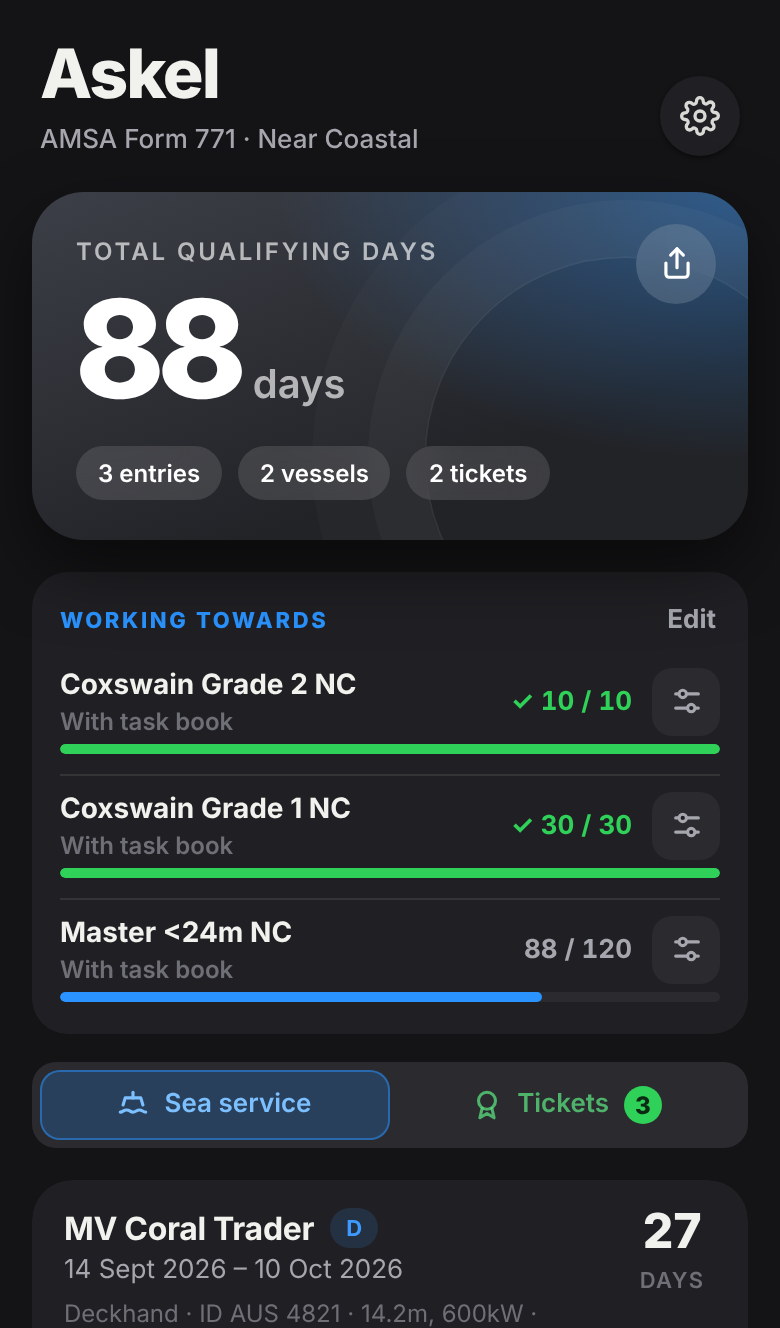
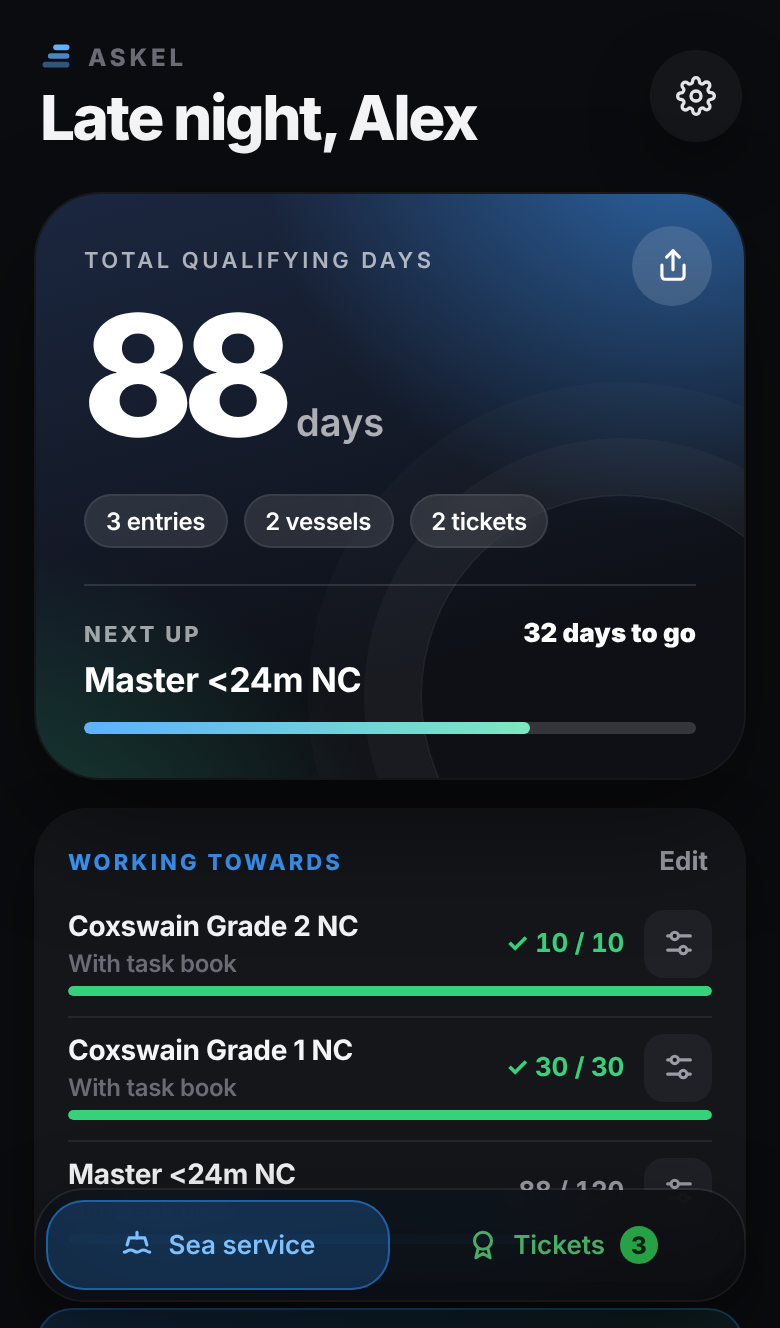
App redesign (glass dock, big type, hero next-up), light theme, first-run setup, backup and restore, greeting
Claude-Session: https://claude.ai/code/session_014hkVmfGYH1MY1u5uVD119d

diff --git a/app/index.html b/app/index.html
@@ -9,7 +9,8 @@
 <meta name="apple-mobile-web-app-title" content="Askel" />
 <meta name="format-detection" content="telephone=no" />
 <meta name="color-scheme" content="dark" />
-<meta name="theme-color" content="#141416" />
+<meta name="theme-color" content="#0B0C0F" />
+<script>try{var __t=localStorage.getItem("askel-theme")||"dark";if(__t==="auto")__t=(window.matchMedia&&matchMedia("(prefers-color-scheme: light)").matches)?"light":"dark";document.documentElement.setAttribute("data-theme",__t);}catch(e){document.documentElement.setAttribute("data-theme","dark");}</script>
 <link rel="manifest" href="manifest.json" />
 <link rel="apple-touch-icon" href="../icon-180.png" />
 <link rel="icon" href="../icon-192.png" />
@@ -475,6 +476,81 @@
   @media (prefers-reduced-motion: reduce) {
     *, *::before, *::after { animation-duration: 0.01ms !important; transition-duration: 0.01ms !important; animation-delay: 0s !important; }
   }
+
+  /* ===== v2 skin: deeper black, hairlines, glass, big type. Light theme below. ===== */
+  :root { --bg: #0B0C0F; --card: #15161A; --card-2: #202127; --ink: #F5F5F7; --ink-2: #9C9CA6; --ink-3: #6B6B76; --line: rgba(255,255,255,0.07);
+    --glass: rgba(11,12,15,0.72); --blue: #3D9BFF; --accent: #3D9BFF; --accent-soft: rgba(61,155,255,0.2); --green: #34D27B; --good: #34D27B;
+    --hero-1: #1B2740; --hero-2: #0E1016; --primary: #F5F5F7; --on-primary: #0B0C0F; --icon: #E4E4E8;
+    --shadow: 0 0 0 1px rgba(255,255,255,0.05), 0 12px 32px rgba(0,0,0,0.38);
+    --fill-soft: rgba(255,255,255,0.08); --tab-blue: #7CC0FF; --tab-green: #5BE07F; --dash: rgba(255,255,255,0.16); --font: Inter, -apple-system, BlinkMacSystemFont, "SF Pro Display", "SF Pro Text", system-ui, sans-serif; }
+  [data-theme="light"] { color-scheme: light; --bg: #F3F3F6; --card: #FFFFFF; --card-2: #EDEDF1; --ink: #131316; --ink-2: #5A5A64; --ink-3: #8C8C96; --line: rgba(0,0,0,0.08);
+    --glass: rgba(243,243,246,0.78); --blue: #0A74F0; --accent: #0A74F0; --accent-soft: rgba(10,116,240,0.14); --green: #16A34A; --good: #16A34A; --red: #E5362F; --danger: #E5362F; --yellow: #B98A00;
+    --primary: #131316; --on-primary: #FFFFFF; --icon: #3A3A42; --shadow: 0 0 0 1px rgba(0,0,0,0.05), 0 10px 28px rgba(20,20,40,0.07);
+    --fill-soft: rgba(0,0,0,0.06); --tab-blue: #0A66D6; --tab-green: #12803B; --dash: rgba(0,0,0,0.2); }
+  body { letter-spacing: -0.01em; }
+  .wrap { padding: calc(var(--sat) + 14px) 18px calc(var(--sab) + 160px); }
+  header { padding: 6px 2px 20px; align-items: center; }
+  .brandline { display: flex; align-items: center; gap: 8px; font-size: 12px; font-weight: 800; letter-spacing: .16em; text-transform: uppercase; color: var(--ink-3); margin-bottom: 8px; }
+  h1 { font-size: 31px; font-weight: 800; letter-spacing: -0.04em; }
+  .icon-btn { width: 44px; height: 44px; background: var(--card); box-shadow: var(--shadow); }
+  .card, .goal-card, .more-card { border-radius: 26px; box-shadow: var(--shadow); }
+  .card { padding: 20px; }
+  .hero { border-radius: 32px; padding: 26px 24px 22px; box-shadow: 0 0 0 1px rgba(255,255,255,0.06), 0 24px 60px rgba(0,0,0,0.45);
+    background: radial-gradient(110% 120% at 92% -10%, rgba(61,155,255,0.55), transparent 55%), radial-gradient(90% 90% at -5% 115%, rgba(52,210,160,0.26), transparent 60%), linear-gradient(165deg, var(--hero-1), var(--hero-2) 75%); }
+  [data-theme="light"] .hero { box-shadow: 0 0 0 1px rgba(10,40,90,0.08), 0 20px 50px rgba(20,60,140,0.22); }
+  .hero-label { letter-spacing: .16em; font-size: 11px; }
+  .hero-value { font-size: 84px; font-weight: 800; letter-spacing: -0.05em; margin: 10px 0 16px; }
+  .hero-value small { font-size: 19px; font-weight: 600; }
+  .pill { background: rgba(255,255,255,0.1); box-shadow: inset 0 0 0 1px rgba(255,255,255,0.08); }
+  .hero-next { margin-top: 18px; padding-top: 16px; border-top: 1px solid rgba(255,255,255,0.12); position: relative; z-index: 1; }
+  .hero-next .hn-top { display: flex; justify-content: space-between; align-items: baseline; font-size: 11px; font-weight: 800; letter-spacing: .14em; text-transform: uppercase; color: rgba(255,255,255,0.6); }
+  .hero-next .hn-top b { letter-spacing: 0; text-transform: none; font-size: 13px; color: #fff; }
+  .hero-next .hn-name { font-size: 17px; font-weight: 700; margin: 6px 0 10px; color: #fff; }
+  .hero-next .hn-bar { height: 6px; border-radius: 3px; background: rgba(255,255,255,0.16); overflow: hidden; }
+  .hero-next .hn-bar i { display: block; height: 100%; border-radius: 3px; background: linear-gradient(90deg, #5DB1FF, #7DE8C0); transition: width .9s var(--ease); }
+  .hero-next.ok .hn-top b { color: #7DE8C0; }
+  /* Floating dock: tabs live at the bottom, where the thumb is */
+  .segmented.main-tabs { position: fixed; left: 50%; bottom: calc(var(--sab) + 14px); transform: translateX(-50%); width: min(calc(100% - 36px), 360px); margin: 0; padding: 5px; z-index: 40;
+    background: var(--glass); -webkit-backdrop-filter: blur(24px) saturate(1.7); backdrop-filter: blur(24px) saturate(1.7); border-radius: 24px; box-shadow: 0 0 0 1px var(--line), 0 16px 44px rgba(0,0,0,0.42); }
+  .segmented.main-tabs .thumb { top: 5px; bottom: 5px; left: 5px; width: calc(50% - 5px); border-radius: 19px; }
+  .main-tabs button { padding: 13px 6px; }
+  .main-tabs button[data-tab="service"] { color: var(--tab-blue); opacity: .75; } .main-tabs button[data-tab="service"].active { color: var(--tab-blue); opacity: 1; }
+  .main-tabs button[data-tab="tickets"] { color: var(--tab-green); opacity: .75; } .main-tabs button[data-tab="tickets"].active { color: var(--tab-green); opacity: 1; }
+  .fab { color: var(--on-primary); background: var(--primary); bottom: calc(var(--sab) + 86px); height: 52px; padding: 0 20px 0 16px; box-shadow: 0 10px 30px rgba(0,0,0,0.4); }
+  .goal-card { padding: 14px 16px 8px; } .goal-head span { letter-spacing: .14em; }
+  .goal-empty { border-color: var(--dash); border-radius: 20px; }
+  .goal-opt.on, .goal-tb-seg button.active { color: var(--tab-blue); }
+  .segmented .thumb { background: var(--card-2); }
+  [data-theme="light"] .segmented .thumb { background: #FFFFFF; box-shadow: 0 1px 4px rgba(0,0,0,0.12); }
+  [data-theme="light"] .boss-card { background: linear-gradient(135deg, rgba(10,116,240,0.10), rgba(22,163,74,0.06)); }
+  [data-theme="light"] .boss-card .boss-x { background: rgba(0,0,0,0.06); }
+  [data-theme="light"] .tab-badge { color: #fff; }
+  [data-theme="light"] .sheet, [data-theme="light"] .form-card { background: var(--card); }
+  [data-theme="light"] .overlay { background: rgba(10,12,20,0.38); }
+  .set-seg { display: flex; gap: 6px; } .set-seg button { flex: 1; border: none; border-radius: 12px; padding: 12px 6px; font-size: 14px; font-weight: 700; background: var(--card-2); color: var(--ink-2); cursor: pointer; transition: background .2s, color .2s, transform .2s var(--spring); }
+  .set-seg button.on { background: var(--accent-soft); color: var(--tab-blue); box-shadow: inset 0 0 0 1px var(--accent); } .set-seg button:active { transform: scale(0.96); }
+  /* First-run setup */
+  .onb { position: fixed; inset: 0; z-index: 90; background: var(--bg); display: none; flex-direction: column; padding: calc(var(--sat) + 14px) 0 calc(var(--sab) + 14px); }
+  .onb.open { display: flex; animation: onbIn .5s var(--ease); } @keyframes onbIn { from { opacity: 0; transform: scale(1.02); } to { opacity: 1; transform: none; } }
+  .onb::before { content: ""; position: absolute; inset: 0 0 auto 0; height: 360px; background: radial-gradient(80% 100% at 85% 0%, rgba(61,155,255,0.28), transparent 60%), radial-gradient(70% 90% at 0% 10%, rgba(52,210,160,0.14), transparent 60%); pointer-events: none; }
+  .onb-top { display: flex; align-items: center; justify-content: space-between; padding: 6px 22px 0; position: relative; }
+  .onb-dots { display: flex; gap: 6px; } .onb-dots i { width: 22px; height: 4px; border-radius: 2px; background: var(--line); transition: background .3s, width .3s var(--spring); } .onb-dots i.on { background: var(--accent); width: 34px; } .onb-dots i.done { background: var(--ink-3); }
+  .onb-skip { border: none; background: transparent; color: var(--ink-3); font-size: 14px; font-weight: 700; padding: 8px 0; cursor: pointer; }
+  .onb-body { flex: 1; overflow-y: auto; padding: 26px 22px 20px; position: relative; -webkit-overflow-scrolling: touch; }
+  .onb-step { max-width: 520px; margin: 0 auto; animation: onbStep .5s var(--ease); } @keyframes onbStep { from { opacity: 0; transform: translateX(22px); } to { opacity: 1; transform: none; } }
+  .onb-mark { width: 62px; height: 62px; border-radius: 20px; background: var(--card); box-shadow: var(--shadow); display: grid; place-items: center; margin-bottom: 26px; }
+  .onb h2 { font-size: 34px; line-height: 1.08; letter-spacing: -0.04em; margin: 0 0 12px; font-weight: 800; }
+  .onb .sub { font-size: 16px; line-height: 1.5; color: var(--ink-2); margin: 0 0 24px; }
+  .onb .opt { display: flex; align-items: center; justify-content: space-between; gap: 14px; padding: 14px 16px; border-radius: 18px; background: var(--card); box-shadow: var(--shadow); margin-bottom: 8px; cursor: pointer; }
+  .onb .opt b { display: block; font-size: 15px; } .onb .opt small { display: block; color: var(--ink-3); font-size: 12.5px; margin-top: 2px; font-weight: 500; }
+  .onb .grp { font-size: 11px; font-weight: 800; letter-spacing: .14em; text-transform: uppercase; color: var(--ink-3); margin: 22px 4px 10px; }
+  .onb .tips { display: grid; gap: 10px; margin-top: 8px; } .onb .tip { display: flex; gap: 14px; align-items: flex-start; padding: 14px 16px; border-radius: 18px; background: var(--card); box-shadow: var(--shadow); font-size: 14.5px; color: var(--ink-2); line-height: 1.45; } .onb .tip b { color: var(--ink); display: block; font-size: 15px; margin-bottom: 2px; }
+  .onb .tip em { font-style: normal; flex: 0 0 30px; height: 30px; border-radius: 10px; background: var(--accent-soft); color: var(--tab-blue); display: grid; place-items: center; font-weight: 800; }
+  .onb-foot { display: flex; gap: 10px; padding: 8px 22px 0; max-width: 564px; width: 100%; margin: 0 auto; position: relative; }
+  .onb-back { flex: 0 0 auto; border: none; border-radius: 16px; padding: 16px 20px; font-size: 16px; font-weight: 700; background: var(--card); color: var(--ink); box-shadow: var(--shadow); cursor: pointer; }
+  .onb-next { flex: 1; border: none; border-radius: 16px; padding: 16px; font-size: 16px; font-weight: 800; background: var(--primary); color: var(--on-primary); cursor: pointer; transition: transform .25s var(--spring); } .onb-next:active, .onb-back:active { transform: scale(0.97); }
+  .onb .alt { display: block; width: 100%; border: none; background: transparent; color: var(--ink-3); font-size: 14px; font-weight: 700; padding: 14px; cursor: pointer; }
+  .onb input[type=text], .onb input[type=email], .onb input[type=password] { margin-bottom: 10px; padding: 16px; border-radius: 16px; background: var(--card); box-shadow: var(--shadow); }
 </style>
 </head>
 <body>
@@ -484,11 +560,11 @@
 
   <header class="rise">
     <div>
-      <h1>Askel</h1>
-      <p class="subtitle">AMSA Form 771 · Near Coastal</p>
+      <div class="brandline"><svg width="16" height="16" viewBox="0 0 24 24" fill="none" stroke="#5DB1FF" stroke-width="4.2" stroke-linecap="round" aria-hidden="true"><path d="M4 18.5H20" opacity=".45"/><path d="M8 12H20" opacity=".75"/><path d="M12 5.5H20"/></svg>Askel</div>
+      <h1 id="greet">Welcome aboard</h1>
     </div>
     <button class="icon-btn" id="settingsBtn" aria-label="Settings">
-      <svg width="20" height="20" viewBox="0 0 24 24" fill="none" stroke="currentColor" stroke-width="2" stroke-linecap="round" stroke-linejoin="round"><circle cx="12" cy="12" r="3"/><path d="M19.4 15a1.65 1.65 0 0 0 .33 1.82l.06.06a2 2 0 1 1-2.83 2.83l-.06-.06a1.65 1.65 0 0 0-1.82-.33 1.65 1.65 0 0 0-1 1.51V21a2 2 0 1 1-4 0v-.09a1.65 1.65 0 0 0-1-1.51 1.65 1.65 0 0 0-1.82.33l-.06.06a2 2 0 1 1-2.83-2.83l.06-.06a1.65 1.65 0 0 0 .33-1.82 1.65 1.65 0 0 0-1.51-1H3a2 2 0 1 1 0-4h.09a1.65 1.65 0 0 0 1.51-1 1.65 1.65 0 0 0-.33-1.82l-.06-.06a2 2 0 1 1 2.83-2.83l.06.06a1.65 1.65 0 0 0 1.82.33h0a1.65 1.65 0 0 0 1-1.51V3a2 2 0 1 1 4 0v.09a1.65 1.65 0 0 0 1 1.51h0a1.65 1.65 0 0 0 1.82-.33l.06-.06a2 2 0 1 1 2.83 2.83l-.06.06a1.65 1.65 0 0 0-.33 1.82v0a1.65 1.65 0 0 0 1.51 1H21a2 2 0 1 1 0 4h-.09a1.65 1.65 0 0 0-1.51 1z"/></svg>
+      <svg width="20" height="20" viewBox="0 0 24 24" fill="none" stroke="currentColor" stroke-width="2" stroke-linecap="round" stroke-linejoin="round"><circle cx="12" cy="12" r="3"/><path d="M19.4 15a1.65 1.65 0 0 0 .33 1.82l.06.06a2 2 0 0 1 0 2.83 2 2 0 0 1-2.83 0l-.06-.06a1.65 1.65 0 0 0-1.82-.33 1.65 1.65 0 0 0-1 1.51V21a2 2 0 0 1-2 2 2 2 0 0 1-2-2v-.09A1.65 1.65 0 0 0 9 19.4a1.65 1.65 0 0 0-1.82.33l-.06.06a2 2 0 0 1-2.83 0 2 2 0 0 1 0-2.83l.06-.06a1.65 1.65 0 0 0 .33-1.82 1.65 1.65 0 0 0-1.51-1H3a2 2 0 0 1-2-2 2 2 0 0 1 2-2h.09A1.65 1.65 0 0 0 4.6 9a1.65 1.65 0 0 0-.33-1.82l-.06-.06a2 2 0 0 1 0-2.83 2 2 0 0 1 2.83 0l.06.06a1.65 1.65 0 0 0 1.82.33H9a1.65 1.65 0 0 0 1-1.51V3a2 2 0 0 1 2-2 2 2 0 0 1 2 2v.09a1.65 1.65 0 0 0 1 1.51 1.65 1.65 0 0 0 1.82-.33l.06-.06a2 2 0 0 1 2.83 0 2 2 0 0 1 0 2.83l-.06.06a1.65 1.65 0 0 0-.33 1.82V9a1.65 1.65 0 0 0 1.51 1H21a2 2 0 0 1 2 2 2 2 0 0 1-2 2h-.09a1.65 1.65 0 0 0-1.51 1z"/></svg>
     </button>
   </header>
 
@@ -503,6 +579,7 @@
       <span class="pill" id="statVessels">0 vessels</span>
       <span class="pill" id="statTickets" style="display:none;"></span>
     </div>
+    <div class="hero-next" id="heroNext" style="display:none;"></div>
   </section>
 
   <div id="goalStrip"></div>
@@ -580,7 +657,7 @@
 </div>
 
 <button class="fab" id="openModalBtn" aria-label="Add sea service entry">
-  <svg width="22" height="22" viewBox="0 0 24 24" fill="none" stroke="#19191C" stroke-width="2.8" stroke-linecap="round"><line x1="12" y1="5" x2="12" y2="19"/><line x1="5" y1="12" x2="19" y2="12"/></svg>
+  <svg width="22" height="22" viewBox="0 0 24 24" fill="none" stroke="currentColor" stroke-width="2.8" stroke-linecap="round"><line x1="12" y1="5" x2="12" y2="19"/><line x1="5" y1="12" x2="19" y2="12"/></svg>
   Add
 </button>
 
@@ -627,6 +704,12 @@
     <div class="sheet-body" id="settingsBody"></div>
     <div class="sheet-foot"><button class="save-btn" id="settingsDoneBtn" type="button">Done</button></div>
   </div>
+</div>
+
+<div class="onb" id="onb" role="dialog" aria-modal="true" aria-label="Welcome to Askel">
+  <div class="onb-top"><div class="onb-dots" id="onbDots"></div><button class="onb-skip" id="onbSkip" type="button">Skip</button></div>
+  <div class="onb-body" id="onbBody"></div>
+  <div class="onb-foot"><button class="onb-back" id="onbBack" type="button">Back</button><button class="onb-next" id="onbNext" type="button">Continue</button></div>
 </div>
 
 <div class="overlay" id="letterOverlay">
@@ -1247,7 +1330,7 @@
   function settingsChanged() { try { localStorage.setItem(SDIRTY, '1'); } catch (e) {} cloudSoon(); }
   function settingsBlob() {
     var p = Object.assign({}, profile); delete p.uid;   // uid is per-device identity for the link-based flow
-    return { v: 1, held: heldIds, goals: goalIds, goalTB: goalTB, ticket: { ticketId: ticketState.ticketId, taskBook: ticketState.taskBook, customDays: ticketState.customDays }, checklist: checklist, letters: letters, profile: p, holder: holderInput.value || '', style: passportStyle, sound: soundOn };
+    return { v: 1, held: heldIds, goals: goalIds, goalTB: goalTB, ticket: { ticketId: ticketState.ticketId, taskBook: ticketState.taskBook, customDays: ticketState.customDays }, checklist: checklist, letters: letters, theme: themePref, profile: p, holder: holderInput.value || '', style: passportStyle, sound: soundOn };
   }
   function applySettings(d) {
     if (!d || d.v !== 1) return;
@@ -1258,6 +1341,7 @@
     if (typeof d.holder === 'string') holderInput.value = d.holder;
     if (d.style && PASSPORT_STYLES[d.style]) passportStyle = d.style;
     if (typeof d.sound === 'boolean') soundOn = d.sound;
+    if (d.theme) { themePref = d.theme; try { localStorage.setItem(THEME_KEY, themePref); } catch (e) {} applyTheme(); }
     try {
       localStorage.setItem(HELD_KEY, JSON.stringify(heldIds)); localStorage.setItem(GOAL_KEY, JSON.stringify(goalIds)); localStorage.setItem(GOALTB_KEY, JSON.stringify(goalTB));
       localStorage.setItem(CHECK_KEY, JSON.stringify(checklist)); localStorage.setItem(TICKET_STORAGE_KEY, JSON.stringify(ticketState)); localStorage.setItem(PROFILE_KEY, JSON.stringify(profile));
@@ -1592,7 +1676,7 @@
     var heldN = heldList().length, stT = $('statTickets');
     stT.style.display = heldN ? '' : 'none'; stT.textContent = heldN + (heldN === 1 ? ' ticket' : ' tickets');
     renderTicketProgress();
-    renderWorking(); renderGoals(); renderMore(); renderBoss();
+    renderWorking(); renderGoals(); renderMore(); renderBoss(); renderNext(); var gr = $('greet'); if (gr) gr.textContent = greeting();
 
     var totalsMap = {};
     entries.forEach(function (e) { totalsMap[e.category] = (totalsMap[e.category] || 0) + Number(e.days); });
@@ -2573,6 +2657,7 @@
     var html = '<div class="form-card"><p class="section-title">Feedback</p>' +
       '<label class="set-row"><span class="n">Sounds<small>Taps, calendar notes and confirmations. Your silent switch still mutes them.</small></span>' +
       '<input type="checkbox" class="switch" id="soundSwitch" ' + (soundOn ? 'checked' : '') + ' /></label></div>';
+    html += '<div class="form-card"><p class="section-title">Appearance</p>' + themeChips() + '</div>';
     html += accountCard();
     html += '<div class="form-card"><p class="section-title">Employer</p><p class="field-hint" style="margin:-6px 0 12px;">Send your employer a summary of your progress. They see your name, the tickets you are working on, and how many days are signed. They do not see your date of birth, phone, email, vessels or medical details.</p>' +
       '<div class="field"><label class="field-label" for="empName">Your name</label><input type="text" id="empName" autocomplete="name" autocapitalize="words" value="' + escapeHtml(profile.name) + '" /></div>' +
@@ -2581,6 +2666,7 @@
     html += '<details class="form-card adv"><summary class="section-title" style="cursor:pointer;margin:0;">Advanced</summary><p class="field-hint" style="margin:10px 0 12px;">You do not need these. They only matter if you send sign-off links while signed out, or host your own copy of the app.</p>' +
       '<div class="field"><label class="field-label" for="baseInput">Web address of this app</label><input type="text" id="baseInput" placeholder="Leave blank" autocapitalize="none" autocomplete="off" value="' + escapeHtml(appBaseOverride) + '" /></div>' +
       '<div class="field"><label class="field-label" for="pasteReply">Paste a signed reply</label><div class="paste-row" style="margin:0;"><input type="text" id="pasteReply" placeholder="A reply link a supervisor sent you" autocomplete="off" autocapitalize="none" /><button type="button" id="pasteReplyBtn">Add</button></div></div></details>';
+    html += '<div class="form-card"><p class="section-title">Your data</p><p class="field-hint" style="margin:-6px 0 12px;">Save a copy of everything to a file, or bring a saved copy back. Restoring adds entries that are not already here.</p><button type="button" class="save-btn" id="exportBackupBtn">Save a backup file</button><button type="button" class="save-btn" id="importBackupBtn" style="margin-top:8px;background:transparent;border:1px solid var(--line,#3a3d44);color:inherit;">Restore from a backup</button><input type="file" id="importBackupFile" accept=".json,application/json" style="display:none;" /><button type="button" class="link" id="replayOnb" style="display:block;margin:14px auto 0;">Replay the welcome setup</button></div>';
     html += '<div class="form-card"><p class="section-title">Tickets I hold</p><p class="field-hint" style="margin:-6px 0 10px;">Tick tickets you already have. They leave Working towards and appear on your passport card.</p>';
     ['General', 'Deck', 'Engineering'].forEach(function (g) {
       html += '<div class="group-label">' + g + '</div>';
@@ -2613,6 +2699,10 @@
       (ev.target.id === 'acctUp' ? function (a, b) { return Cloud.signUp(a, b, location.origin + '/app/'); } : Cloud.signIn)(em, pw).then(function () { cloudStatus = ''; return cloudSync(true); }, function (e) { cloudMsg = e.message; renderSettings(); });
     }
     else if (ev.target.id === 'bossBtn') tellBoss();
+    else if (ev.target.getAttribute && ev.target.getAttribute('data-theme-set')) { setTheme(ev.target.getAttribute('data-theme-set')); renderSettings(); fx('toggle'); }
+    else if (ev.target.id === 'exportBackupBtn') exportBackup();
+    else if (ev.target.id === 'importBackupBtn') $('importBackupFile').click();
+    else if (ev.target.id === 'replayOnb') { closeSettings(); setTimeout(function () { openOnb(0); }, 350); }
     else if (ev.target.id === 'acctForgot') {
       var fe = $('acctEmail').value.trim(); if (!fe) { cloudMsg = 'Type your email above first.'; renderSettings(); return; }
       Cloud.recover(fe, location.origin + '/app/').then(function () { cloudMsg = ''; showToast('If that email has an account, a reset link is on its way.'); }, function (e) { cloudMsg = e.message; renderSettings(); });
@@ -2642,6 +2732,7 @@
     appBaseOverride = ev.target.value.trim(); try { localStorage.setItem(BASE_KEY, appBaseOverride); } catch (e) {}
   });
   settingsBody.addEventListener('change', function (ev) {
+    if (ev.target.id === 'importBackupFile') { if (ev.target.files && ev.target.files[0]) importBackup(ev.target.files[0]); ev.target.value = ''; return; }
     var el = ev.target;
     if (el.id === 'soundSwitch') {
       soundOn = el.checked;
@@ -2929,6 +3020,137 @@
     if (ev.target.id === 'bossGo') { fx('tick'); tellBoss(); }
     else if (ev.target.id === 'bossX') { try { localStorage.setItem(BOSS_KEY, '1'); } catch (e) {} fx('close'); renderBoss(); }
   });
+  // ---- Appearance: dark by default, light or automatic on request ----
+  var THEME_KEY = 'askel-theme', themePref = 'dark';
+  try { themePref = localStorage.getItem(THEME_KEY) || 'dark'; } catch (e) {}
+  function resolvedTheme() { return themePref === 'auto' ? ((window.matchMedia && matchMedia('(prefers-color-scheme: light)').matches) ? 'light' : 'dark') : themePref; }
+  function applyTheme() { var t = resolvedTheme(); document.documentElement.setAttribute('data-theme', t); var m = document.querySelector('meta[name=theme-color]'); if (m) m.setAttribute('content', t === 'light' ? '#F3F3F6' : '#0B0C0F'); }
+  function setTheme(p) { themePref = p; try { localStorage.setItem(THEME_KEY, p); } catch (e) {} applyTheme(); settingsChanged(); }
+  try { if (window.matchMedia) matchMedia('(prefers-color-scheme: light)').addEventListener('change', function () { if (themePref === 'auto') applyTheme(); }); } catch (e) {}
+  function themeChips(extraClass) {
+    return '<div class="set-seg ' + (extraClass || '') + '">' + [['dark', 'Dark'], ['light', 'Light'], ['auto', 'Auto']].map(function (o) { return '<button type="button" data-theme-set="' + o[0] + '" class="' + (themePref === o[0] ? 'on' : '') + '">' + o[1] + '</button>'; }).join('') + '</div>';
+  }
+
+  // ---- Greeting and the "next up" line in the hero ----
+  function greeting() {
+    var h = new Date().getHours(), g = h < 5 ? 'Late night' : h < 12 ? 'Good morning' : h < 17 ? 'Good afternoon' : 'Good evening', n = ((profile && profile.name) || '').trim().split(' ')[0];
+    return n ? g + ', ' + n : 'Welcome aboard';
+  }
+  function nextMilestone() {
+    var gs = activeGoals().map(function (t) { var mode = goalMode(t); return { t: t, req: goalReq(t), lg: qualifying(t, t.categories, { taskBook: mode }).days }; });
+    var open = gs.filter(function (x) { return x.lg < x.req; });
+    if (!open.length && gs.length) return { allDone: true };
+    if (!open.length) { open = TICKETS.filter(goalAvailable).map(function (t) { return { t: t, req: goalReq(t), lg: qualifying(t, t.categories).days }; }).filter(function (x) { return x.lg > 0 && x.lg < x.req; }); }
+    if (!open.length) return null;
+    open.sort(function (a, b) { return b.lg / b.req - a.lg / a.req; }); return open[0];
+  }
+  function renderNext() {
+    var el = $('heroNext'); if (!el) return; var m = nextMilestone();
+    if (!m) { el.style.display = 'none'; return; }
+    el.style.display = ''; el.classList.toggle('ok', !!m.allDone);
+    if (m.allDone) { el.innerHTML = '<div class="hn-top"><span>Next up</span><b>✓ Ready</b></div><div class="hn-name">Your goal tickets are ready to apply for</div>'; return; }
+    var left = m.req - m.lg, pct = Math.min(100, Math.round(m.lg / m.req * 100));
+    el.innerHTML = '<div class="hn-top"><span>Next up</span><b>' + left + ' day' + (left === 1 ? '' : 's') + ' to go</b></div><div class="hn-name">' + escapeHtml(m.t.name) + '</div><div class="hn-bar"><i style="width:' + pct + '%"></i></div>';
+  }
+
+  // ---- Backup to a file and restore from one ----
+  function deliverFile(text, name, title, mime) {
+    var blob = new Blob([text], { type: mime }), file = null; try { file = new File([text], name, { type: mime }); } catch (e) {}
+    function openIt() { try { var url = URL.createObjectURL(blob), a = document.createElement('a'); a.href = url; a.download = name; document.body.appendChild(a); a.click(); a.remove(); showToast('Backup ready'); } catch (e) { showToast('Saving a file is not available in this view.'); } }
+    if (NATIVE && nativePlugin('Share')) { nativeShareFile(blob, name, title).catch(function (err) { if (!(err && /cancel/i.test(String(err.message || err)))) openIt(); }); return; }
+    if (file && navigator.share && navigator.canShare && navigator.canShare({ files: [file] })) { navigator.share({ files: [file], title: title }).catch(function (err) { if (err && err.name !== 'AbortError') openIt(); }); } else openIt();
+  }
+  function exportBackup() {
+    var data = { app: 'askel', v: 1, exported: new Date().toISOString(), entries: entries, settings: settingsBlob() };
+    deliverFile(JSON.stringify(data), 'askel-backup-' + isoDate(new Date()) + '.json', 'Askel backup', 'application/json');
+  }
+  function importBackup(file) {
+    var fr = new FileReader();
+    fr.onload = function () {
+      var d; try { d = JSON.parse(fr.result); } catch (e) { d = null; }
+      if (!d || d.app !== 'askel' || !Array.isArray(d.entries)) { showToast('That is not an Askel backup file'); return; }
+      var have = {}, added = 0; entries.forEach(function (e) { have[e.id] = 1; });
+      d.entries.forEach(function (e) { if (e && e.id && !have[e.id]) { entries.push(e); added++; } });
+      if (d.settings) applySettings(d.settings);
+      saveEntries(); renderMain(); if (settingsOverlay.classList.contains('open')) renderSettings();
+      fx('success'); showToast('Restored. Added ' + added + ' entr' + (added === 1 ? 'y' : 'ies') + ' from the backup.');
+    };
+    fr.readAsText(file);
+  }
+
+  // ---- First-run setup: one window, a few questions ----
+  var ONB_KEY = 'askel-onboarded', onbStep = 0, ONB_STEPS = 5, onbMsg = '';
+  var onbEl = $('onb'), onbBody = $('onbBody');
+  function onbGroupList(kind) {
+    var h = '';
+    ['General', 'Deck', 'Engineering'].forEach(function (g) {
+      var list = TICKETS.filter(function (t) { return t.group === g && !t.custom && (kind === 'held' || goalAvailable(t)); }); if (!list.length) return;
+      h += '<div class="grp">' + g + '</div>';
+      list.forEach(function (t) {
+        var on = kind === 'held' ? heldIds.indexOf(t.id) !== -1 : goalIds.indexOf(t.id) !== -1;
+        h += '<label class="opt"><span><b>' + escapeHtml(t.name) + '</b>' + (kind === 'goal' ? '<small>' + goalReq(t) + ' days of sea service</small>' : (coveredBy(t.id) && !on ? '<small>Covered by ' + escapeHtml(coveredBy(t.id).name) + '</small>' : '')) + '</span><input type="checkbox" class="switch" data-onb="' + kind + '" data-id="' + t.id + '" ' + (on ? 'checked' : '') + ' /></label>';
+      });
+    });
+    return h || '<p class="sub">Nothing to pick here.</p>';
+  }
+  function renderOnb() {
+    $('onbDots').innerHTML = Array.apply(null, Array(ONB_STEPS)).map(function (_, i) { return '<i class="' + (i === onbStep ? 'on' : i < onbStep ? 'done' : '') + '"></i>'; }).join('');
+    var h = '';
+    if (onbStep === 0) {
+      h = '<div class="onb-step"><div class="onb-mark"><svg width="30" height="30" viewBox="0 0 24 24" fill="none" stroke="#5DB1FF" stroke-width="4.2" stroke-linecap="round" aria-hidden="true"><path d="M4 18.5H20" opacity=".45"/><path d="M8 12H20" opacity=".75"/><path d="M12 5.5H20"/></svg></div>' +
+        '<h2>Welcome to Askel</h2><p class="sub">Log your sea time, get it signed by your supervisor from their phone, and see how close you are to your next ticket. Let’s set you up. It takes under a minute.</p>' +
+        '<div class="grp" style="margin-top:6px;">What should we call you?</div><input type="text" id="onbName" autocomplete="name" autocapitalize="words" placeholder="Your name" value="' + escapeHtml(profile.name || '') + '" />' +
+        '<div class="grp">Appearance</div>' + themeChips('onb-theme') + '</div>';
+    } else if (onbStep === 1) {
+      h = '<div class="onb-step"><h2>Which tickets do you already hold?</h2><p class="sub">Switch on anything you have. We’ll leave the tickets they cover out of your list. Hold nothing yet? Just continue.</p>' + onbGroupList('held') + '</div>';
+    } else if (onbStep === 2) {
+      h = '<div class="onb-step"><h2>What are you working towards?</h2><p class="sub">Pick the tickets you want. They’ll sit under your total days with live progress. You can change this any time.</p>' + onbGroupList('goal') + '</div>';
+    } else if (onbStep === 3) {
+      var signed = cloudOn();
+      h = '<div class="onb-step"><h2>' + (signed ? 'You’re signed in' : 'Keep it safe and sync it') + '</h2><p class="sub">' + (signed ? 'Your records will back up and follow you to any phone.' : 'Add your email to back up your sea time, use it on more than one phone, send sign-off links to supervisors, and join your employer. Optional. Askel works without it.') + '</p>' +
+        (signed ? '' : '<input type="email" id="onbEmail" autocomplete="email" autocapitalize="none" placeholder="Email" /><input type="password" id="onbPw" autocomplete="new-password" placeholder="Password (8+ characters)" />' + (onbMsg ? '<p class="sub" style="color:var(--red);margin:0 0 12px;">' + escapeHtml(onbMsg) + '</p>' : '') + '<button type="button" class="alt" id="onbMake" style="color:var(--tab-blue);font-size:16px;">Create account</button>') + '</div>';
+    } else {
+      h = '<div class="onb-step"><div class="onb-mark" style="background:var(--accent-soft);"><svg width="30" height="30" viewBox="0 0 24 24" fill="none" stroke="var(--tab-blue)" stroke-width="3" stroke-linecap="round" stroke-linejoin="round"><polyline points="20 6 9 17 4 12"/></svg></div><h2>You’re all set</h2><p class="sub">Here’s how it works.</p>' +
+        '<div class="tips"><div class="tip"><em>1</em><span><b>Add your sea time</b>Tap Add and enter the vessel and days.</span></div><div class="tip"><em>2</em><span><b>Get it signed</b>Send it to your supervisor. They sign on their phone in 30 seconds.</span></div><div class="tip"><em>3</em><span><b>Watch your tickets</b>The Tickets tab shows what’s ready and what’s next.</span></div></div></div>';
+    }
+    onbBody.innerHTML = h; onbBody.scrollTop = 0;
+    $('onbBack').style.visibility = onbStep === 0 ? 'hidden' : '';
+    $('onbNext').textContent = onbStep === ONB_STEPS - 1 ? 'Start' : (onbStep === 3 && !cloudOn() ? 'Not now' : 'Continue');
+    $('onbSkip').style.visibility = onbStep === ONB_STEPS - 1 ? 'hidden' : '';
+  }
+  function openOnb(step) { onbStep = step || 0; onbMsg = ''; renderOnb(); document.body.style.overflow = 'hidden'; onbEl.classList.add('open'); fx('open'); }
+  function closeOnb() { try { localStorage.setItem(ONB_KEY, '1'); } catch (e) {} onbEl.classList.remove('open'); document.body.style.overflow = ''; renderMain(); fx('success'); }
+  function onbSaveName() { var n = $('onbName'); if (n && n.value.trim() !== profile.name) { profile.name = n.value.trim(); saveProfile(); renderMain(); } }
+  $('onbNext').addEventListener('click', function () {
+    if (onbStep === 0) onbSaveName();
+    if (onbStep === ONB_STEPS - 1) { closeOnb(); return; }
+    fx('tick'); onbStep++; renderOnb();
+  });
+  $('onbBack').addEventListener('click', function () { if (onbStep > 0) { fx('tick'); if (onbStep === 1) onbSaveName(); onbStep--; renderOnb(); } });
+  $('onbSkip').addEventListener('click', function () { onbSaveName(); closeOnb(); });
+  onbBody.addEventListener('change', function (ev) {
+    var kind = ev.target.getAttribute && ev.target.getAttribute('data-onb'); if (!kind) return;
+    var id = ev.target.getAttribute('data-id'), list = kind === 'held' ? heldIds : goalIds, i = list.indexOf(id);
+    if (ev.target.checked && i === -1) list.push(id); else if (!ev.target.checked && i !== -1) list.splice(i, 1);
+    if (kind === 'held') { saveHeld(); goalIds = goalIds.filter(function (g) { var t = TICKETS.filter(function (x) { return x.id === g; })[0]; return t && goalAvailable(t); }); saveGoals(); } else saveGoals();
+    fx('toggle');
+  });
+  onbBody.addEventListener('click', function (ev) {
+    var tb = ev.target.closest && ev.target.closest('[data-theme-set]'); if (tb) { setTheme(tb.getAttribute('data-theme-set')); Array.prototype.forEach.call(onbBody.querySelectorAll('[data-theme-set]'), function (b) { b.classList.toggle('on', b === tb); }); fx('toggle'); return; }
+    if (ev.target.id === 'onbMake') {
+      var em = $('onbEmail').value.trim(), pw = $('onbPw').value;
+      if (!em || pw.length < 8) { onbMsg = 'Enter your email and a password of at least 8 characters.'; renderOnb(); return; }
+      onbMsg = ''; ev.target.disabled = true; ev.target.textContent = 'Creating…';
+      Cloud.signUp(em, pw, location.origin + '/app/').then(function () { cloudStatus = ''; cloudSync(); onbStep++; renderOnb(); }, function (e) { onbMsg = e.message; renderOnb(); });
+    }
+  });
+  (function () {
+    var done = false; try { done = localStorage.getItem(ONB_KEY) === '1'; } catch (e) {}
+    var existing = entries.length || heldIds.length || (profile.name && profile.name.trim());
+    if (!done && !existing && !/access_token=|#signed=|#r=/.test(location.hash)) setTimeout(function () { openOnb(0); }, 350);
+    else if (!done) { try { localStorage.setItem(ONB_KEY, '1'); } catch (e) {} }
+  })();
+
   // ---- Collapsing nav bar ----
   var navbar = $('navbar'), navShown = false;
   window.addEventListener('scroll', function () {

diff --git a/app/sw.js b/app/sw.js
@@ -1,5 +1,5 @@
 // Offline support: cache the app shell, serve cache first, refresh in background.
-var CACHE = 'askel-app-v1';
+var CACHE = 'askel-app-v2';
 var ASSETS = ['./', 'index.html', 'manifest.json', '../icon-180.png', '../icon-192.png', '../icon-512.png', '../AMSA_771.pdf', '../pdf-lib.min.js', '../cloud.js', '../sign.html', '../dashboard.html'];
 
 self.addEventListener('install', function (e) {
